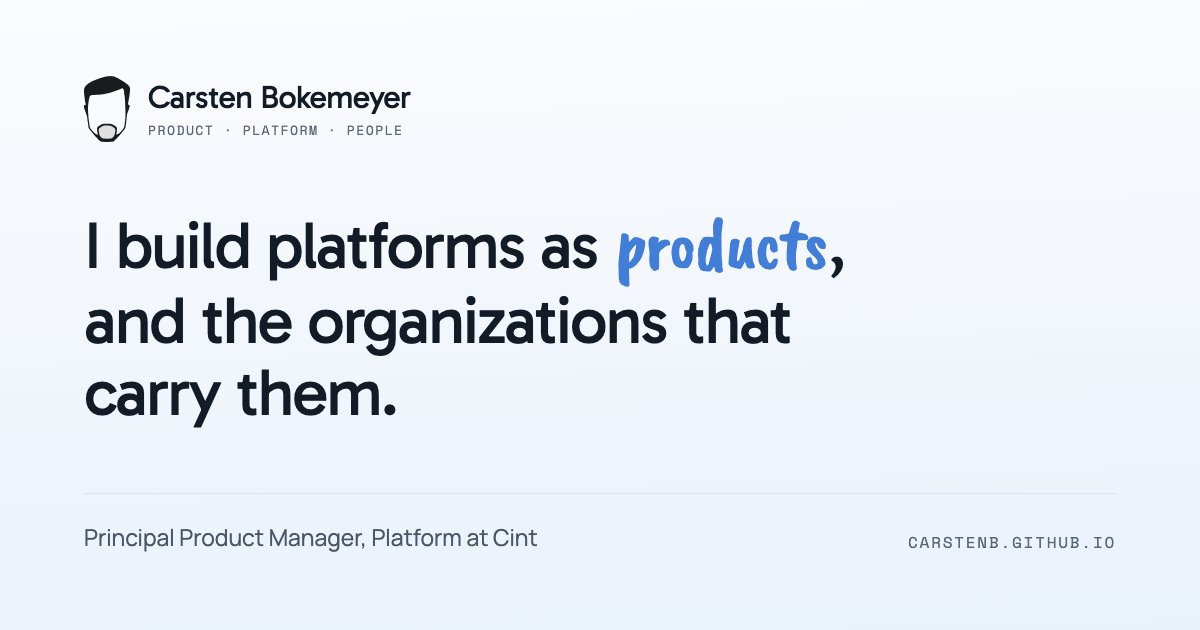
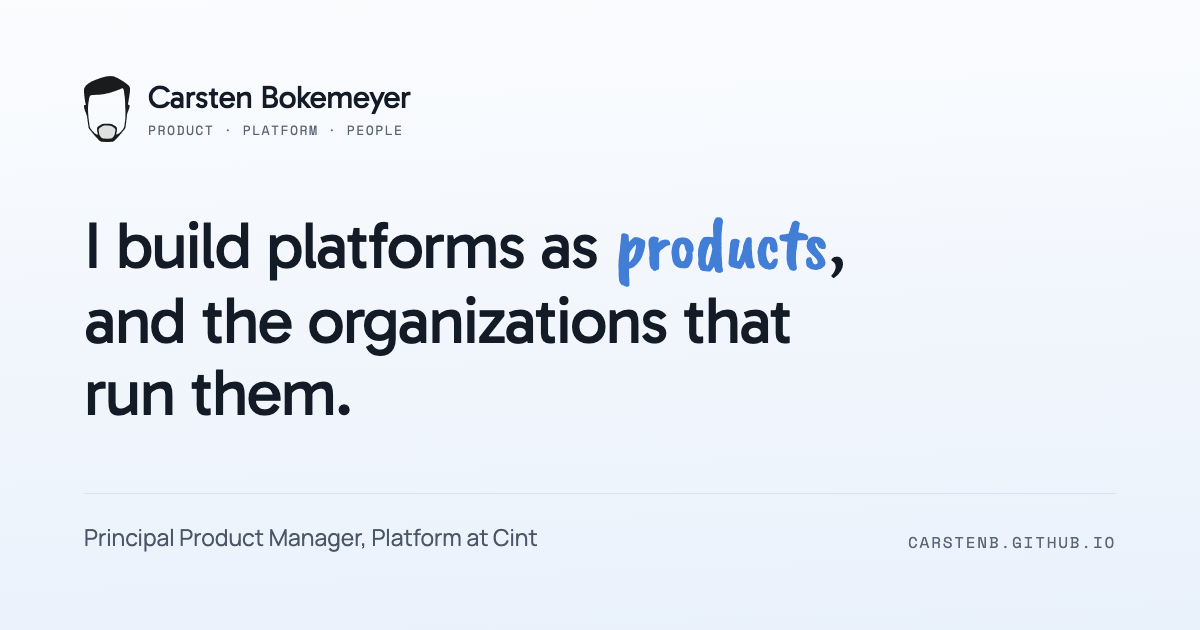
style: "the organizations that run them"
Replaces "carry" in the hero line, its two alt-text copies on each of the
three pages, and the OG card template — eight occurrences.

"carry" is idiomatic English in the sense of sustaining something, but it
reads as literal load-bearing to a German ear, and Carsten is the author.
"build" was ruled out: the sentence opens with "I build platforms", so
repeating the verb flattens the contrast and shifts the meaning from
operating to making. "run" is the standard word for operating a system in
production and keeps the original sense.

og-image.png re-exported so the card matches the page. Headline still sets
in three lines, the Caveat Brush accent still sits on "products".

Changed region(s): [[0.0617, 0.573, 0.3392, 0.6937]]

diff --git a/index.html b/index.html
@@ -17,9 +17,9 @@
 <meta property="og:image:width" content="1200" />
 <meta property="og:image:height" content="630" />
 <meta property="og:image:type" content="image/png" />
-<meta property="og:image:alt" content="Carsten Bokemeyer: I build platforms as products, and the organizations that carry them." />
+<meta property="og:image:alt" content="Carsten Bokemeyer: I build platforms as products, and the organizations that run them." />
 <meta name="twitter:card" content="summary_large_image" />
-<meta name="twitter:image:alt" content="Carsten Bokemeyer: I build platforms as products, and the organizations that carry them." />
+<meta name="twitter:image:alt" content="Carsten Bokemeyer: I build platforms as products, and the organizations that run them." />
 <link rel="icon" href="/assets/carbo-logo.svg" type="image/svg+xml" />
 <link rel="icon" href="/assets/favicon-32.png" sizes="32x32" type="image/png" />
 <link rel="icon" href="/assets/favicon-16.png" sizes="16x16" type="image/png" />
@@ -74,7 +74,7 @@
 <header class="hero">
 <div class="wrap">
 <div class="top">
-<h1>I build platforms as <em>products</em>, and the organizations that carry them.</h1>
+<h1>I build platforms as <em>products</em>, and the organizations that run them.</h1>
 <div class="below">
 <div>
 <p class="lead">I'm a Principal Product Manager, Platform at <b>Cint</b>. My work spans platform products, APIs, developer experience and increasingly AI-native interfaces such as MCP, along with the organizational structures around them.</p>

diff --git a/cv/index.html b/cv/index.html
@@ -16,9 +16,9 @@
 <meta property="og:image:width" content="1200" />
 <meta property="og:image:height" content="630" />
 <meta property="og:image:type" content="image/png" />
-<meta property="og:image:alt" content="Carsten Bokemeyer: I build platforms as products, and the organizations that carry them." />
+<meta property="og:image:alt" content="Carsten Bokemeyer: I build platforms as products, and the organizations that run them." />
 <meta name="twitter:card" content="summary_large_image" />
-<meta name="twitter:image:alt" content="Carsten Bokemeyer: I build platforms as products, and the organizations that carry them." />
+<meta name="twitter:image:alt" content="Carsten Bokemeyer: I build platforms as products, and the organizations that run them." />
 <link rel="icon" href="/assets/carbo-logo.svg" type="image/svg+xml" />
 <link rel="icon" href="/assets/favicon-32.png" sizes="32x32" type="image/png" />
 <link rel="icon" href="/assets/favicon-16.png" sizes="16x16" type="image/png" />

diff --git a/impressum/index.html b/impressum/index.html
@@ -17,9 +17,9 @@
 <meta property="og:image:width" content="1200" />
 <meta property="og:image:height" content="630" />
 <meta property="og:image:type" content="image/png" />
-<meta property="og:image:alt" content="Carsten Bokemeyer: I build platforms as products, and the organizations that carry them." />
+<meta property="og:image:alt" content="Carsten Bokemeyer: I build platforms as products, and the organizations that run them." />
 <meta name="twitter:card" content="summary_large_image" />
-<meta name="twitter:image:alt" content="Carsten Bokemeyer: I build platforms as products, and the organizations that carry them." />
+<meta name="twitter:image:alt" content="Carsten Bokemeyer: I build platforms as products, and the organizations that run them." />
 <link rel="icon" href="/assets/carbo-logo.svg" type="image/svg+xml" />
 <link rel="icon" href="/assets/favicon-32.png" sizes="32x32" type="image/png" />
 <link rel="icon" href="/assets/favicon-16.png" sizes="16x16" type="image/png" />

diff --git a/design/og-card.html b/design/og-card.html
@@ -23,7 +23,7 @@ h1 em{font-style:normal;font-family:'Caveat Brush',cursive;color:#427ED6;font-si
 </style></head><body>
 <div class="og" id="og">
 <div class="mk"><img src="/assets/carbo-logo.svg" alt=""><span class="nm">Carsten Bokemeyer<i>Product · Platform · People</i></span></div>
-<h1>I build platforms as <em>products</em>, and the organizations that carry them.</h1>
+<h1>I build platforms as <em>products</em>, and the organizations that run them.</h1>
 <div class="foot"><span class="role">Principal Product Manager, Platform at Cint</span><span class="url">carstenb.github.io</span></div>
 </div>
 </body></html>
